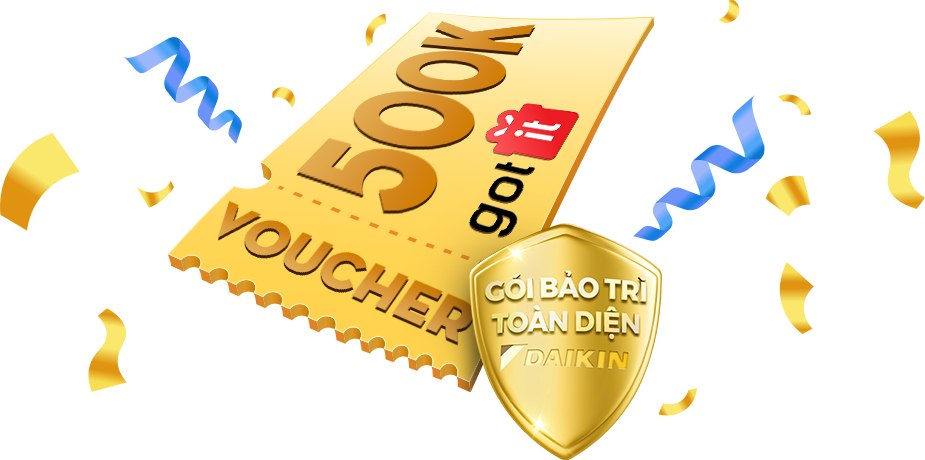
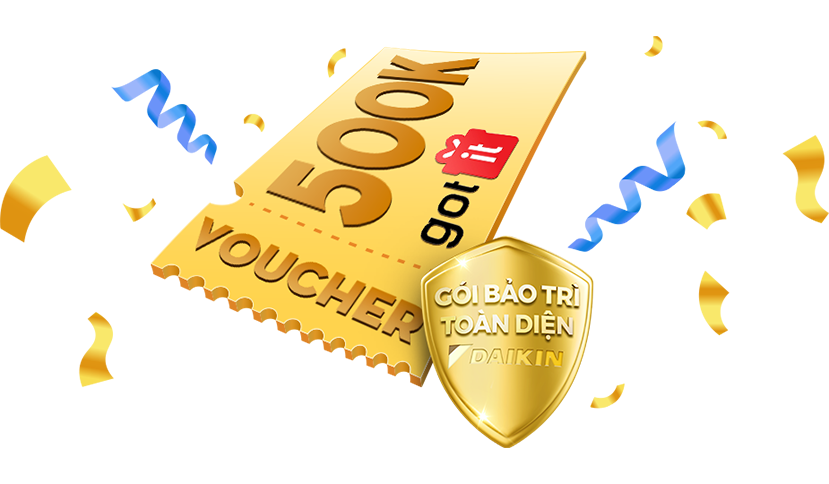
update html css

diff --git a/danh-sach-trung-thuong-02-maylockk.html b/danh-sach-trung-thuong-02-maylockk.html
@@ -50,7 +50,7 @@
         <img src="./images/img-trungthuong-des.png" alt="" class="bg-banner md-desktop">
         <div class="md-content">
             <a href="#"><img src="./images/md-back.png" alt="" class="md-back"></a>
-            <h3>danh sách trúng giải 01 máy lọc không khí daikin & 01 gói bảo trì</h3>
+            <h3>danh sách trúng giải 01 máy lọc không khí daikin & 01 gói bảo trì toàn diện</h3>
             <img src="./images/qua-trung-thuong/may-loc.png" alt="" class="img-title img-title-2">
             <form action="">
                 <input type="search" placeholder="Tìm kiếm bẳng tên hoặc sdt">

diff --git a/danh-sach-trung-thuong-02-voucher-500k.html b/danh-sach-trung-thuong-02-voucher-500k.html
@@ -50,7 +50,7 @@
         <img src="./images/img-trungthuong-des.png" alt="" class="bg-banner md-desktop">
         <div class="md-content">
             <a href="#"><img src="./images/md-back.png" alt="" class="md-back"></a>
-            <h3>danh sách trúng giải voucher got it 500.00đ & 01 gói bảo trì</h3>
+            <h3>danh sách trúng giải voucher got it 500.00đ & 01 gói bảo trì toàn diện</h3>
             <img src="./images/qua-trung-thuong/500k.png" alt="" class="img-title img-title-2">
             <form action="">
                 <input type="search" placeholder="Tìm kiếm bẳng tên hoặc sdt">

diff --git a/danh-sach-trung-thuong-02-1luongvang.html b/danh-sach-trung-thuong-02-1luongvang.html
@@ -50,7 +50,7 @@
         <img src="./images/img-trungthuong-des.png" alt="" class="bg-banner md-desktop">
         <div class="md-content">
             <a href="#"><img src="./images/md-back.png" alt="" class="md-back"></a>
-            <h3>danh sách trúng giải 01 lượng vàng pnj & 01 gói bảo trì</h3>
+            <h3>danh sách trúng giải 01 lượng vàng pnj & 01 gói bảo trì toàn diện</h3>
             <img src="./images/qua-trung-thuong/1-luong.png" alt="" class="img-title img-title-2">
             <form action="">
                 <input type="search" placeholder="Tìm kiếm bẳng tên hoặc sdt">

diff --git a/danh-sach-trung-thuong-02-1chivang.html b/danh-sach-trung-thuong-02-1chivang.html
@@ -50,7 +50,7 @@
         <img src="./images/img-trungthuong-des.png" alt="" class="bg-banner md-desktop">
         <div class="md-content">
             <a href="#"><img src="./images/md-back.png" alt="" class="md-back"></a>
-            <h3>danh sách trúng giải 01 chỉ vàng pnj & 01 gói bảo trì</h3>
+            <h3>danh sách trúng giải 01 chỉ vàng pnj & 01 gói bảo trì toàn diện</h3>
             <img src="./images/qua-trung-thuong/1-chi.png" alt="" class="img-title img-title-2">
             <form action="">
                 <input type="search" placeholder="Tìm kiếm bẳng tên hoặc sdt">

diff --git a/css/style.css b/css/style.css
@@ -3874,9 +3874,6 @@ input{
   .page-nhanthuong-08 .md-content .main-content .ctn-button-quetma{
     margin-bottom: 25px;
   }
-  .page-trungthuong-02 .md-content .img-title-2{
-    top: 15%;
-  }
 }
 @media screen and (min-width: 2000px){ 
   .md-wheel-2 p.top-text{
